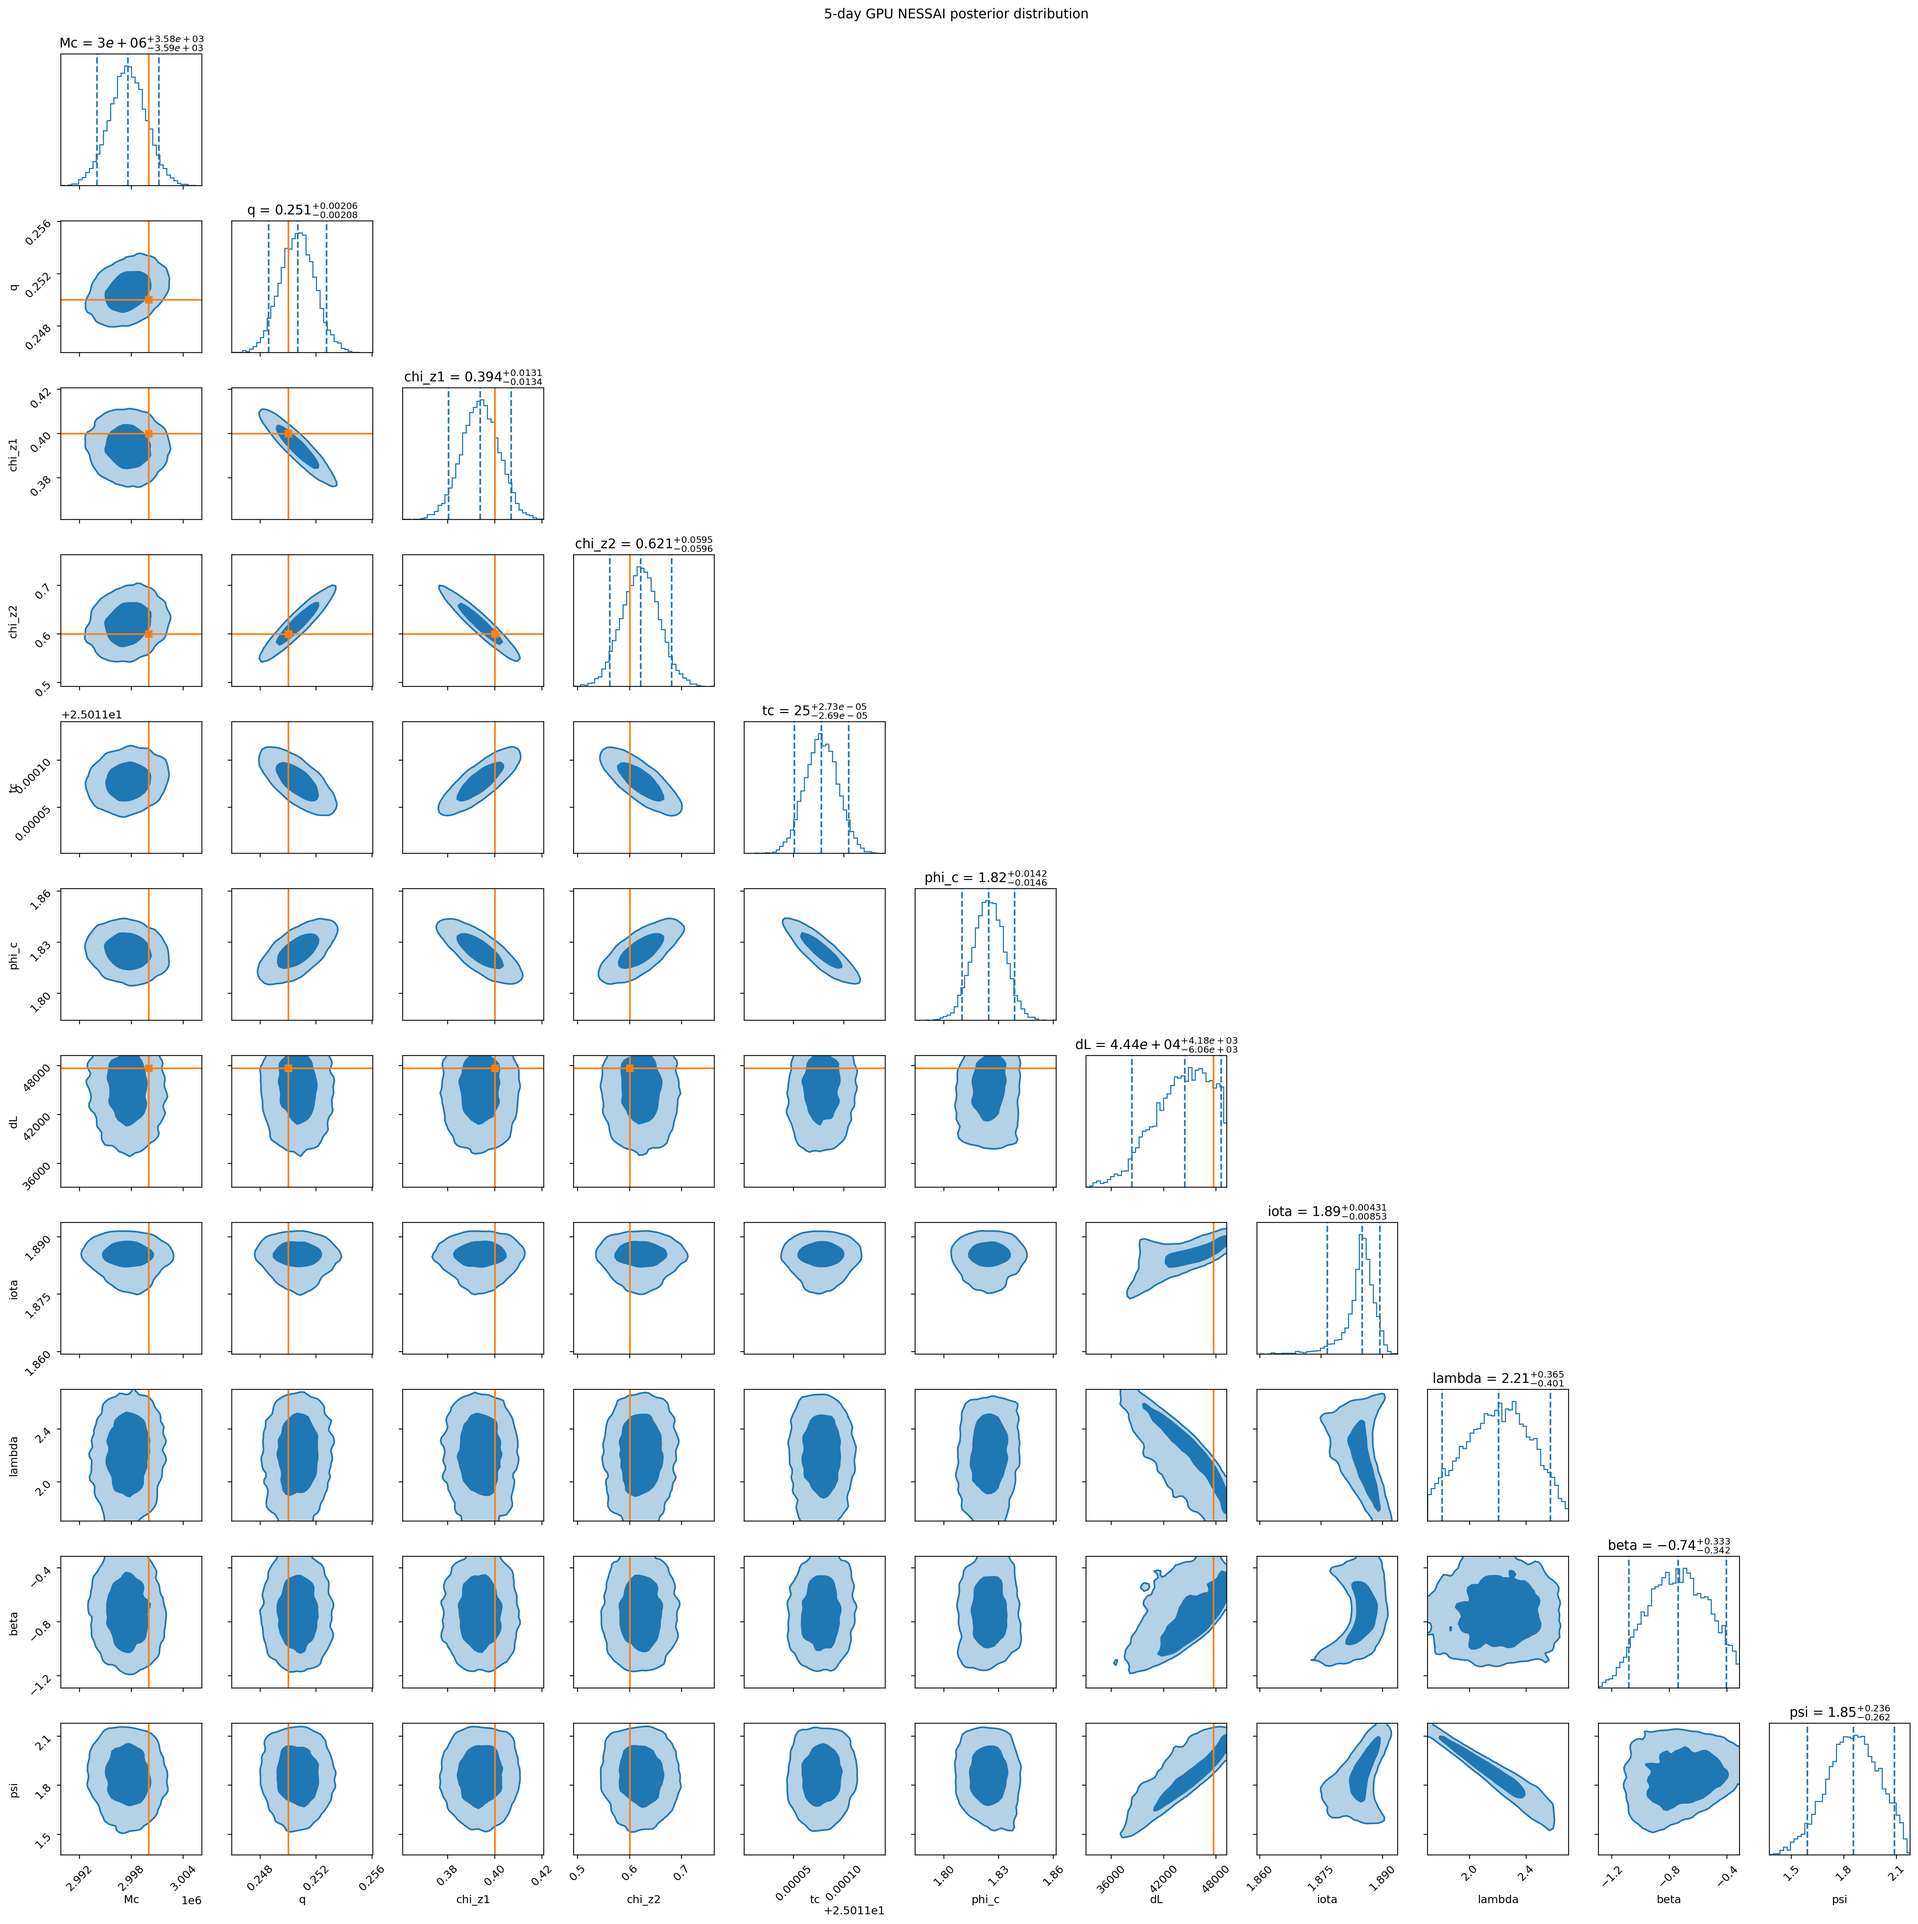
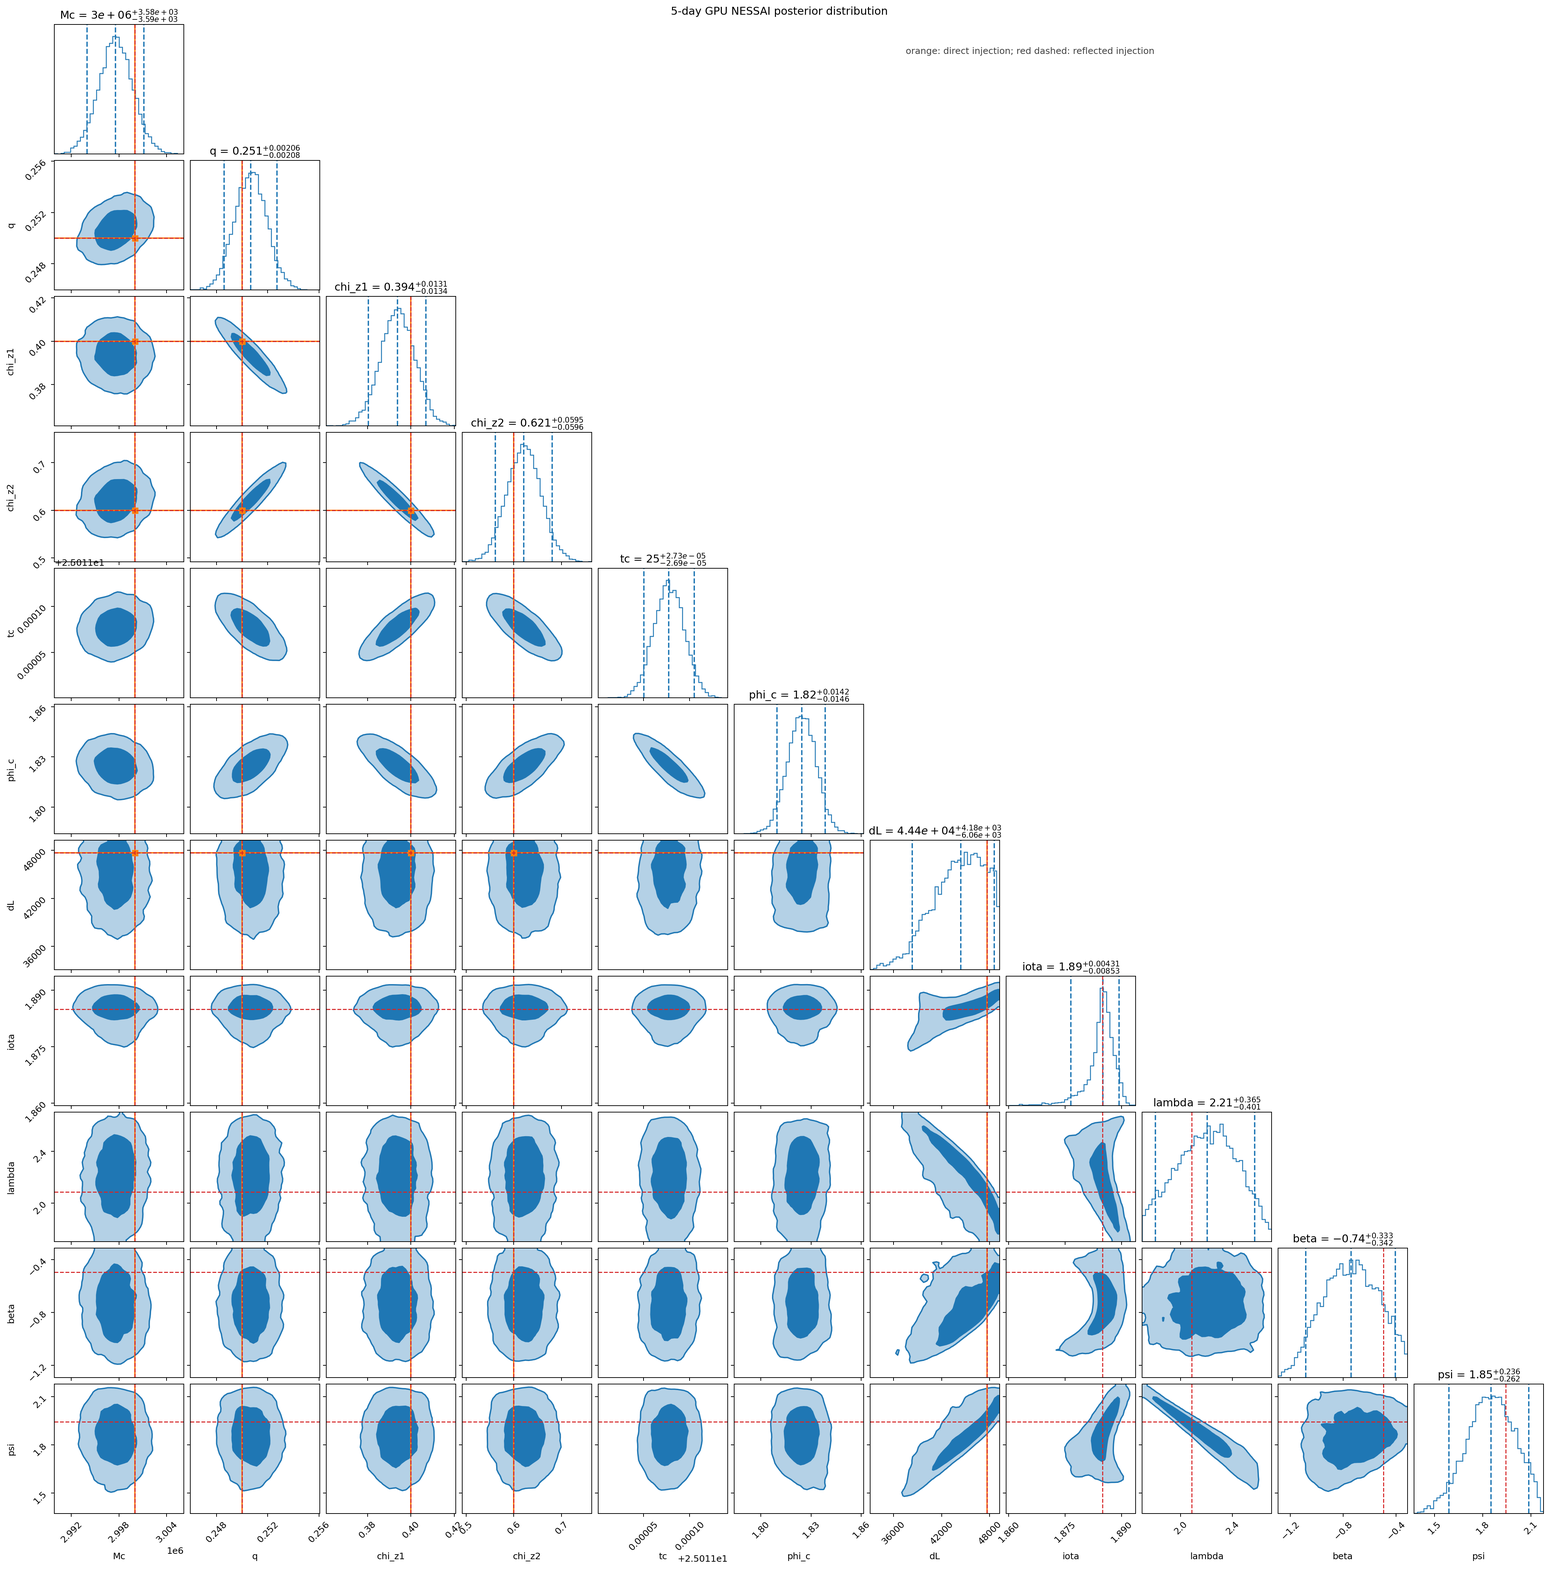
Clarify subtask 2 evidence and reflected posterior plots

diff --git a/scripts/build_subtask2_notebook.py b/scripts/build_subtask2_notebook.py
@@ -1944,7 +1944,28 @@ GPU_NESSAI_CORNER_LABELS = [
     "psi",
 ]
 
-def plot_gpu_nessai_corner(samples: pd.DataFrame, label: str, filename: str) -> None:
+def reflected_injection_reference() -> dict[str, float] | None:
+    if orbit is None:
+        print("Reflected injection reference skipped because orbit is unavailable.")
+        return None
+    try:
+        reflected = get_reflected_parameter_dict(searched_params=injected_parameters, orbit=orbit)
+    except Exception as exc:
+        print(f"Reflected injection reference skipped: {exc}")
+        return None
+    return {k: float(v) for k, v in reflected.items()}
+
+def overplot_corner_reference(fig, values: dict[str, float], *, color: str, linestyle: str, linewidth: float = 1.15) -> None:
+    ndim = len(GPU_NESSAI_CORNER_PARAMETERS)
+    axes = np.asarray(fig.axes).reshape((ndim, ndim))
+    reference = [float(values[p]) for p in GPU_NESSAI_CORNER_PARAMETERS]
+    for i in range(ndim):
+        axes[i, i].axvline(reference[i], color=color, linestyle=linestyle, lw=linewidth)
+        for j in range(i):
+            axes[i, j].axvline(reference[j], color=color, linestyle=linestyle, lw=linewidth)
+            axes[i, j].axhline(reference[i], color=color, linestyle=linestyle, lw=linewidth)
+
+def plot_gpu_nessai_corner(samples: pd.DataFrame, label: str, filename: str, reflected_reference: dict[str, float] | None = None) -> None:
     missing = [p for p in GPU_NESSAI_CORNER_PARAMETERS if p not in samples.columns]
     if missing:
         print(f"Corner plot skipped for {label}; missing columns: {missing}")
@@ -1967,7 +1988,10 @@ def plot_gpu_nessai_corner(samples: pd.DataFrame, label: str, filename: str) -> 
         truth_color=ORANGE,
         max_n_ticks=3,
     )
+    if reflected_reference is not None:
+        overplot_corner_reference(fig, reflected_reference, color=RED, linestyle="--")
     fig.suptitle(label, y=0.995)
+    fig.text(0.58, 0.965, "orange: direct injection; red dashed: reflected injection", color="0.25", fontsize=10)
     save_current_figure(filename)
     plt.show()
 
@@ -2002,12 +2026,15 @@ def plot_gpu_nessai_taiji_frame_position(samples: pd.DataFrame, label: str, file
 
 baseline_gpu_nessai_samples = load_gpu_nessai_posterior_samples("baseline_example4")
 five_day_gpu_nessai_samples = load_gpu_nessai_posterior_samples("task_five_day")
+reflected_injection = reflected_injection_reference()
+if reflected_injection is not None:
+    print("Reflected injection reference:", {k: reflected_injection[k] for k in ["inclination", "longitude", "latitude", "psi"]})
 
 if baseline_gpu_nessai_samples is not None:
-    plot_gpu_nessai_corner(baseline_gpu_nessai_samples, "baseline GPU NESSAI posterior distribution", "17_baseline_gpu_nessai_corner.png")
+    plot_gpu_nessai_corner(baseline_gpu_nessai_samples, "baseline GPU NESSAI posterior distribution", "17_baseline_gpu_nessai_corner.png", reflected_injection)
     plot_gpu_nessai_taiji_frame_position(baseline_gpu_nessai_samples, "baseline GPU NESSAI position in Taiji frame", "09_baseline_taiji_frame_sky.png")
 if five_day_gpu_nessai_samples is not None:
-    plot_gpu_nessai_corner(five_day_gpu_nessai_samples, "5-day GPU NESSAI posterior distribution", "18_five_day_gpu_nessai_corner.png")
+    plot_gpu_nessai_corner(five_day_gpu_nessai_samples, "5-day GPU NESSAI posterior distribution", "18_five_day_gpu_nessai_corner.png", reflected_injection)
     plot_gpu_nessai_taiji_frame_position(five_day_gpu_nessai_samples, "5-day GPU NESSAI position in Taiji frame", "10_five_day_taiji_frame_sky.png")
 """
     ),
@@ -2040,11 +2067,11 @@ The full GPU-heterodyned NESSAI runs completed with `nlive=2000`, `stopping=0.1`
 
 The full production route follows the task requirement to use NESSAI nested sampling while replacing the slow full-frequency CPU likelihood with the GPU BBHx heterodyned likelihood. Both windows use the real TDC files, the official XYZ-to-A/E preprocessing, the same frequency band, and the same local-fisher prior construction around the GPU F-statistics search result.
 
-The baseline Example 4 window (`tc - 2.5 days` to `tc + 2.5 days`) completed with `nlive=2000`, `logZ = 594014.861 +/- 0.124`, 10,890 posterior samples, and a measured sampler wall time of 9.44 minutes. The required 5-day window (`tc - 4 days` to `tc + 1 day`) completed with `logZ = 594995.406 +/- 0.125`, 10,879 posterior samples, and a measured wall time of 9.59 minutes. CUDA-enabled PyTorch was active for both runs.
+The baseline Example 4 window (`tc - 2.5 days` to `tc + 2.5 days`) completed with `nlive=2000`, `logZ = 594014.861 +/- 0.124`, 10,890 posterior samples, and a measured sampler wall time of 9.44 minutes. The required 5-day window (`tc - 4 days` to `tc + 1 day`) completed with `logZ = 594995.406 +/- 0.125`, 10,879 posterior samples, and a measured wall time of 9.59 minutes. CUDA-enabled PyTorch was active for both runs. The two `logZ` values are reported as per-run NESSAI evidence/convergence diagnostics only; their difference must not be interpreted as a Bayes factor or as Bayesian evidence favoring the 5-day data window because the two runs use different data segments.
 
 The auxiliary insertion-index KS p-values are 0.480 for the baseline and 0.357 for the 5-day window, and the maximum posterior boundary fractions are 0.0065 and 0.0074 respectively. These checks do not replace NESSAI's native diagnostics, but they support the conclusion that neither local posterior is obviously truncated by the Fisher box or failing the lightweight insertion-rank screen.
 
-The 5-day window narrows the chirp-mass CI90 width by about 12.3%, leaves the coalescence-time and sky-position widths nearly unchanged, and slightly widens the luminosity-distance CI90 width by about 2.9%. These are local reflected-branch posterior comparisons, not a global sky-mode comparison. The F-statistics search is centered on the ecliptic-reflected branch, so direct/reflected degeneracy should be discussed explicitly in the report.
+The 5-day window narrows the chirp-mass CI90 width by about 12.3%, leaves the coalescence-time and sky-position widths nearly unchanged, and slightly widens the luminosity-distance CI90 width by about 2.9%. These are local reflected-branch posterior comparisons, not a global sky-mode comparison. The F-statistics search is centered on the ecliptic-reflected branch; the corner plots therefore show orange solid lines for the direct injected parameters and red dashed lines for the reflected injection reference generated with `get_reflected_parameter_dict`. The report should discuss this direct/reflected degeneracy explicitly.
 
 Main limitations: the heterodyned likelihood is local to its fiducial waveform, the local-fisher prior intentionally does not explore both sky-reflection modes in one run, and PSD estimates differ because the two windows use different pre-event noise segments. A rigorous direct-versus-reflected evidence comparison should run two separate local-fisher branches with their own fiducials rather than a single wide-sky heterodyned run.
 """

diff --git a/README.md b/README.md
@@ -213,9 +213,9 @@ The GPU preflight JSON files now include `log_likelihood_at_injection` / `hetero
 
 The previous Windows-local posterior run used `bilby==1.0.0` with `dynesty==1.0.1` as a smoke sampler. Those CSV files are kept only as historical pipeline-validation outputs. The previous WSL2 GPU Eryn quick check is also retained only as a pipeline-validation posterior. The production route is now NESSAI with `GPU_NESSAI_RUN_MODE = "full"` and `GPU_NESSAI_FULL_NLIVE = 2000`, following the NESSAI paper's recommendation that complex gravitational-wave problems use at least about 1000 live points and typically 2000 live points. The notebook keeps the `nlive=200` pilot option only for coordinate-path, benchmark, and file-output validation.
 
-The full GPU-heterodyned NESSAI run completed on the WSL2 RTX 4060 setup with CUDA-enabled PyTorch. For the symmetric Example 4 baseline window, the run used `nlive=2000`, produced 10,890 posterior samples, and measured `logZ = 594014.861 +/- 0.124` in 9.44 minutes. The auxiliary insertion-index KS p-value is 0.480 and the maximum posterior boundary fraction is 0.0065. For the required asymmetric 5-day window, the run produced 10,879 posterior samples and measured `logZ = 594995.406 +/- 0.125` in 9.59 minutes. The auxiliary insertion-index KS p-value is 0.357 and the maximum posterior boundary fraction is 0.0074. Both windows therefore pass the lightweight KS and boundary-contact screens; the notebook also stores NESSAI's native insertion-index, trace, and logX-logL diagnostic figures.
+The full GPU-heterodyned NESSAI run completed on the WSL2 RTX 4060 setup with CUDA-enabled PyTorch. For the symmetric Example 4 baseline window, the run used `nlive=2000`, produced 10,890 posterior samples, and measured `logZ = 594014.861 +/- 0.124` in 9.44 minutes. The auxiliary insertion-index KS p-value is 0.480 and the maximum posterior boundary fraction is 0.0065. For the required asymmetric 5-day window, the run produced 10,879 posterior samples and measured `logZ = 594995.406 +/- 0.125` in 9.59 minutes. The auxiliary insertion-index KS p-value is 0.357 and the maximum posterior boundary fraction is 0.0074. Both windows therefore pass the lightweight KS and boundary-contact screens; the notebook also stores NESSAI's native insertion-index, trace, and logX-logL diagnostic figures. Do not interpret `Delta logZ ~= +980` as a Bayes factor or as evidence that the 5-day window is Bayesian-preferred: the two evidences are computed on different data segments, so `logZ` is used here only as a per-run convergence/normalization diagnostic.
 
-The GPU NESSAI posterior comparison shows similar local-Fisher posterior widths for most parameters. The 5-day window gives a narrower chirp-mass CI90 width by about 12.3% (`8172.6 Msun` to `7169.5 Msun`), nearly unchanged coalescence-time and sky widths, and a slightly wider luminosity-distance CI90 width by about 2.9%. These statements should be interpreted as local-reflected-branch results because the F-statistics search and heterodyned fiducial are centered on the reflected sky branch; the direct/reflected degeneracy and PSD-window differences remain part of the scientific discussion in notebook section 23.
+The GPU NESSAI posterior comparison shows similar local-Fisher posterior widths for most parameters. The 5-day window gives a narrower chirp-mass CI90 width by about 12.3% (`8172.6 Msun` to `7169.5 Msun`), nearly unchanged coalescence-time and sky widths, and a slightly wider luminosity-distance CI90 width by about 2.9%. These statements should be interpreted as local-reflected-branch results because the F-statistics search and heterodyned fiducial are centered on the reflected sky branch. The corner plots use orange solid lines for the direct injected parameters and red dashed lines for the reflected injection reference, so the extrinsic-parameter recovery should be judged against the reflected branch. The direct/reflected degeneracy, NESSAI-versus-Eryn convergence comparison, `logZ` caveat, CI-width comparison, and PSD-window differences remain part of the scientific discussion in notebook section 23.
 
 ## Environment
 
@@ -269,9 +269,9 @@ Triangle-BBH and Triangle-Simulator may require a separate Linux or WSL2 environ
 
 ## Remaining Work
 
-Subtask 2 now has a completed full GPU-heterodyned NESSAI run for both the official baseline and required 5-day windows. The measured cached-search full run time was about 19.0 minutes total: 9.44 minutes for the baseline window and 9.59 minutes for the 5-day window. Re-running the full GPU F-statistics search instead of using cached search results can still add extra time depending on `GPU_SEARCH_MAXITER`.
+Subtask 2 now has a completed full GPU-heterodyned NESSAI run for both the official baseline and required 5-day windows. The measured cached-search full run time was about 19.0 minutes total: 9.44 minutes for the baseline window and 9.59 minutes for the 5-day window, roughly a 450x wall-clock reduction relative to the multi-day CPU Example-4-style route on this machine. Re-running the full GPU F-statistics search instead of using cached search results can still add extra time depending on `GPU_SEARCH_MAXITER`.
 
-Before using the numbers in a final report, inspect notebook section 22 and the tracked diagnostics for insertion-index uniformity, boundary contact, direct/reflected sky degeneracy, and PSD-estimation differences. `wide_sky` can be substantially slower and less reliable with a single heterodyned fiducial; prefer two separate local-fisher branches for direct/reflected mode comparison.
+Before using the numbers in a final report, inspect notebook sections 22-23 and the tracked diagnostics for insertion-index uniformity, boundary contact, direct/reflected sky degeneracy, and PSD-estimation differences. `wide_sky` can be substantially slower and less reliable with a single heterodyned fiducial; prefer two separate local-fisher branches for direct/reflected mode comparison.
 
 ## Notes
 
